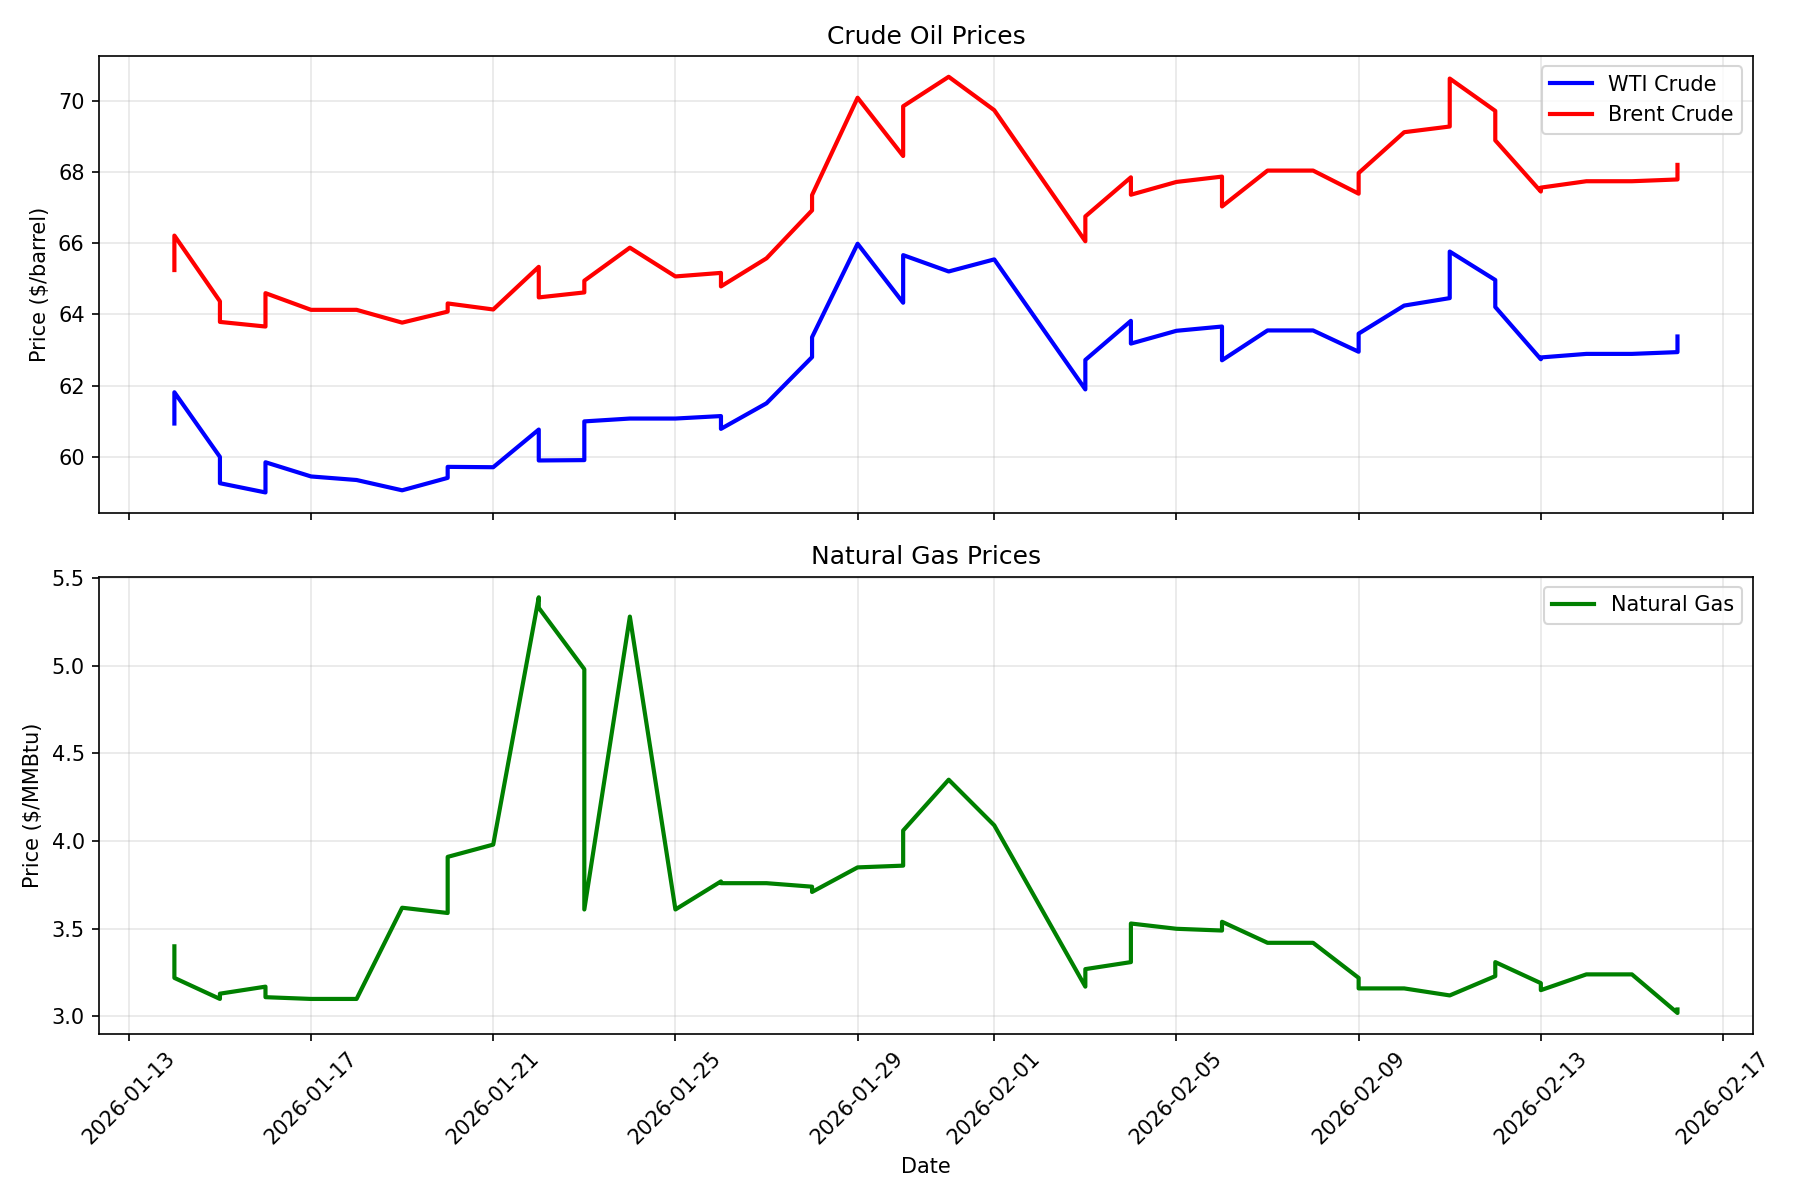
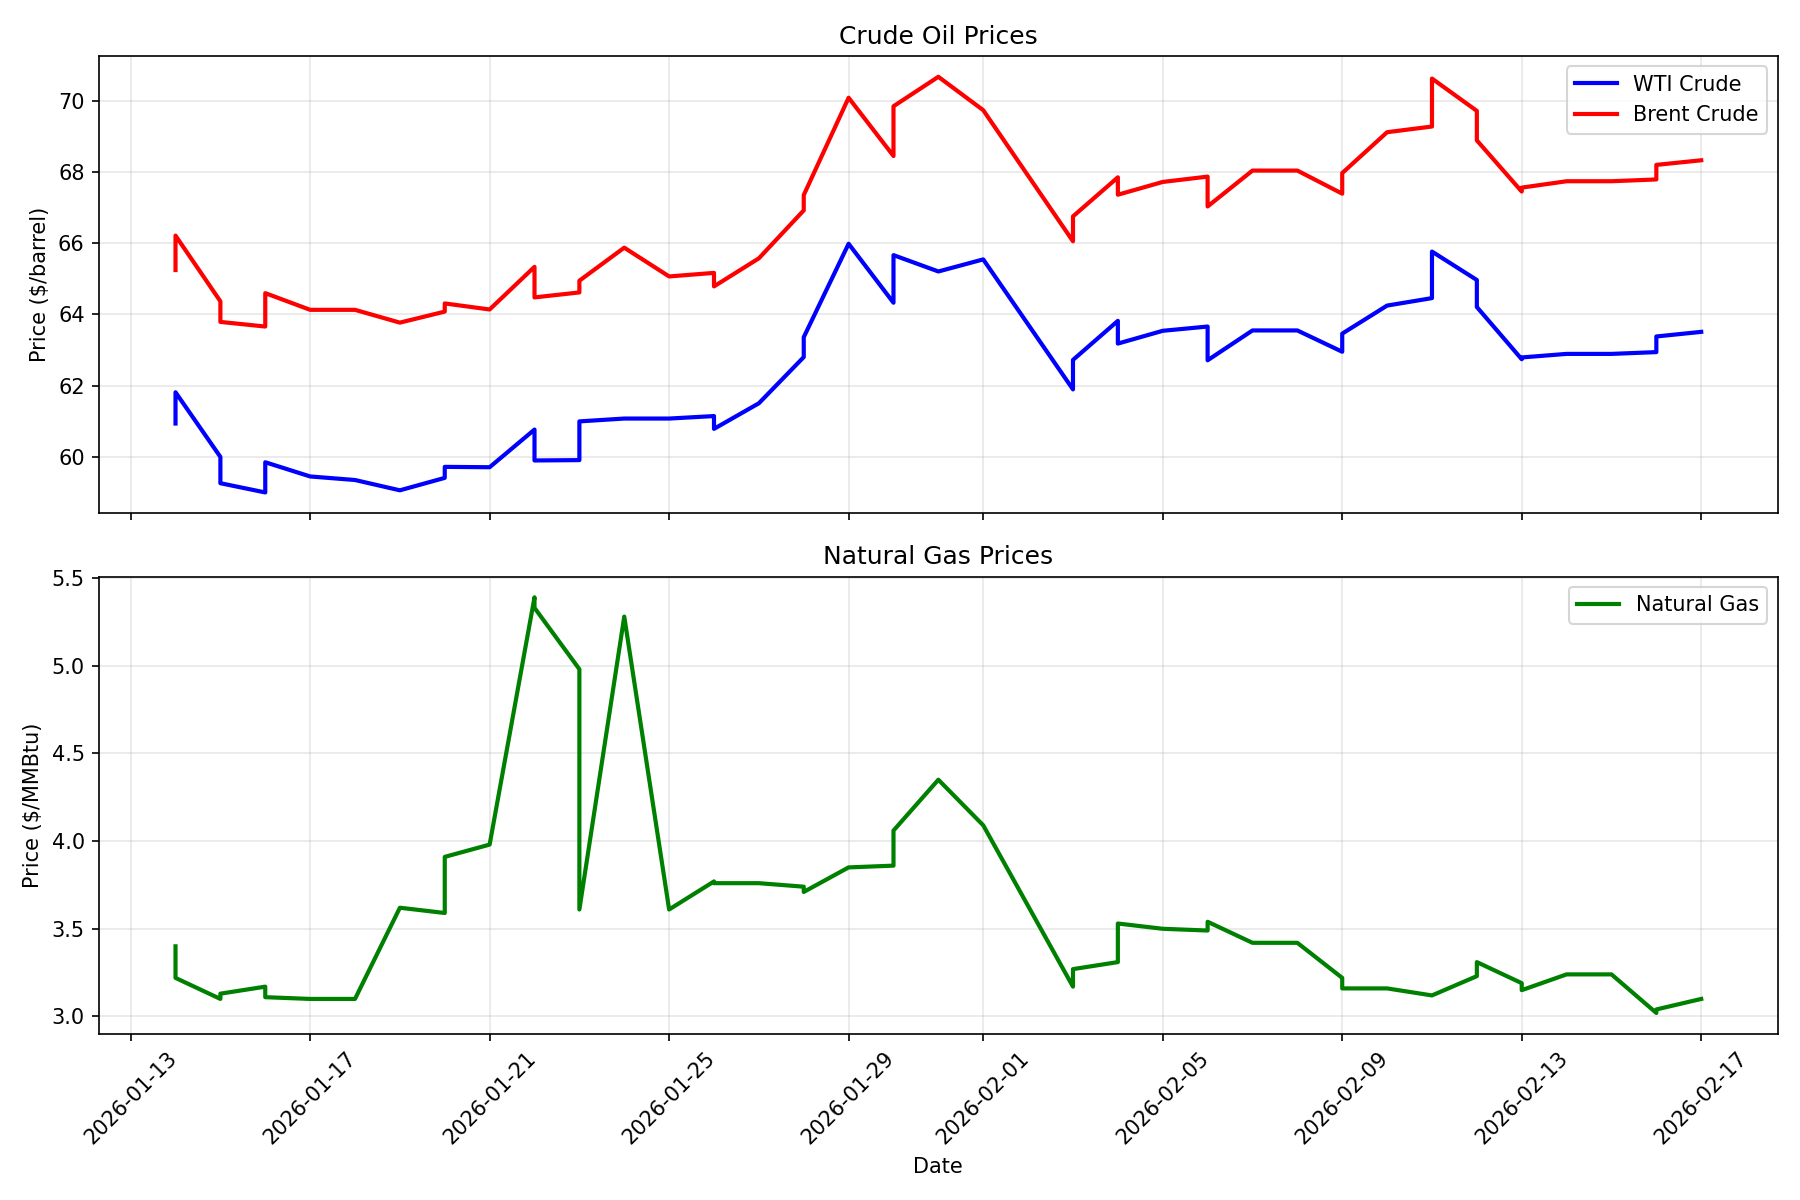
Daily price update: 2026-02-17

diff --git a/README.md b/README.md
@@ -2,16 +2,16 @@
 
 Automated daily tracking of chemical commodity prices and chemical company stocks.
 
-## Latest Prices (Updated: 2026-02-16)
+## Latest Prices (Updated: 2026-02-17)
 
 ### Energy Commodities
 
 | Commodity | Price | Change (24h) | Unit |
 |-----------|-------|--------------|------|
-| WTI Crude Oil | $63.38 | +0.49 (+0.78%) | $/barrel |
-| Brent Crude Oil | $68.21 | +0.46 (+0.68%) | $/barrel |
-| Natural Gas | $3.04 | -0.20 (-6.20%) | $/MMBtu |
-| Heating Oil | $2.31 | -0.07 (-3.12%) | $/gallon |
+| WTI Crude Oil | $63.51 | +0.00 (+0.00%) | $/barrel |
+| Brent Crude Oil | $68.34 | +0.00 (+0.00%) | $/barrel |
+| Natural Gas | $3.10 | +0.00 (+0.00%) | $/MMBtu |
+| Heating Oil | $2.32 | +0.00 (+0.00%) | $/gallon |
 
 ### Chemical Company Stocks
 

diff --git a/logs/update_log.md b/logs/update_log.md
@@ -70,3 +70,4 @@ Daily updates to the chemical engineering data repository.
 - **2026-02-15 14:18:38**: Updated 4 energy prices, 8 stocks, 0 FRED series
 - **2026-02-16 00:00:04**: Updated 4 energy prices, 8 stocks, 0 FRED series
 - **2026-02-16 14:35:52**: Updated 4 energy prices, 8 stocks, 0 FRED series
+- **2026-02-17 00:10:09**: Updated 4 energy prices, 8 stocks, 0 FRED series
